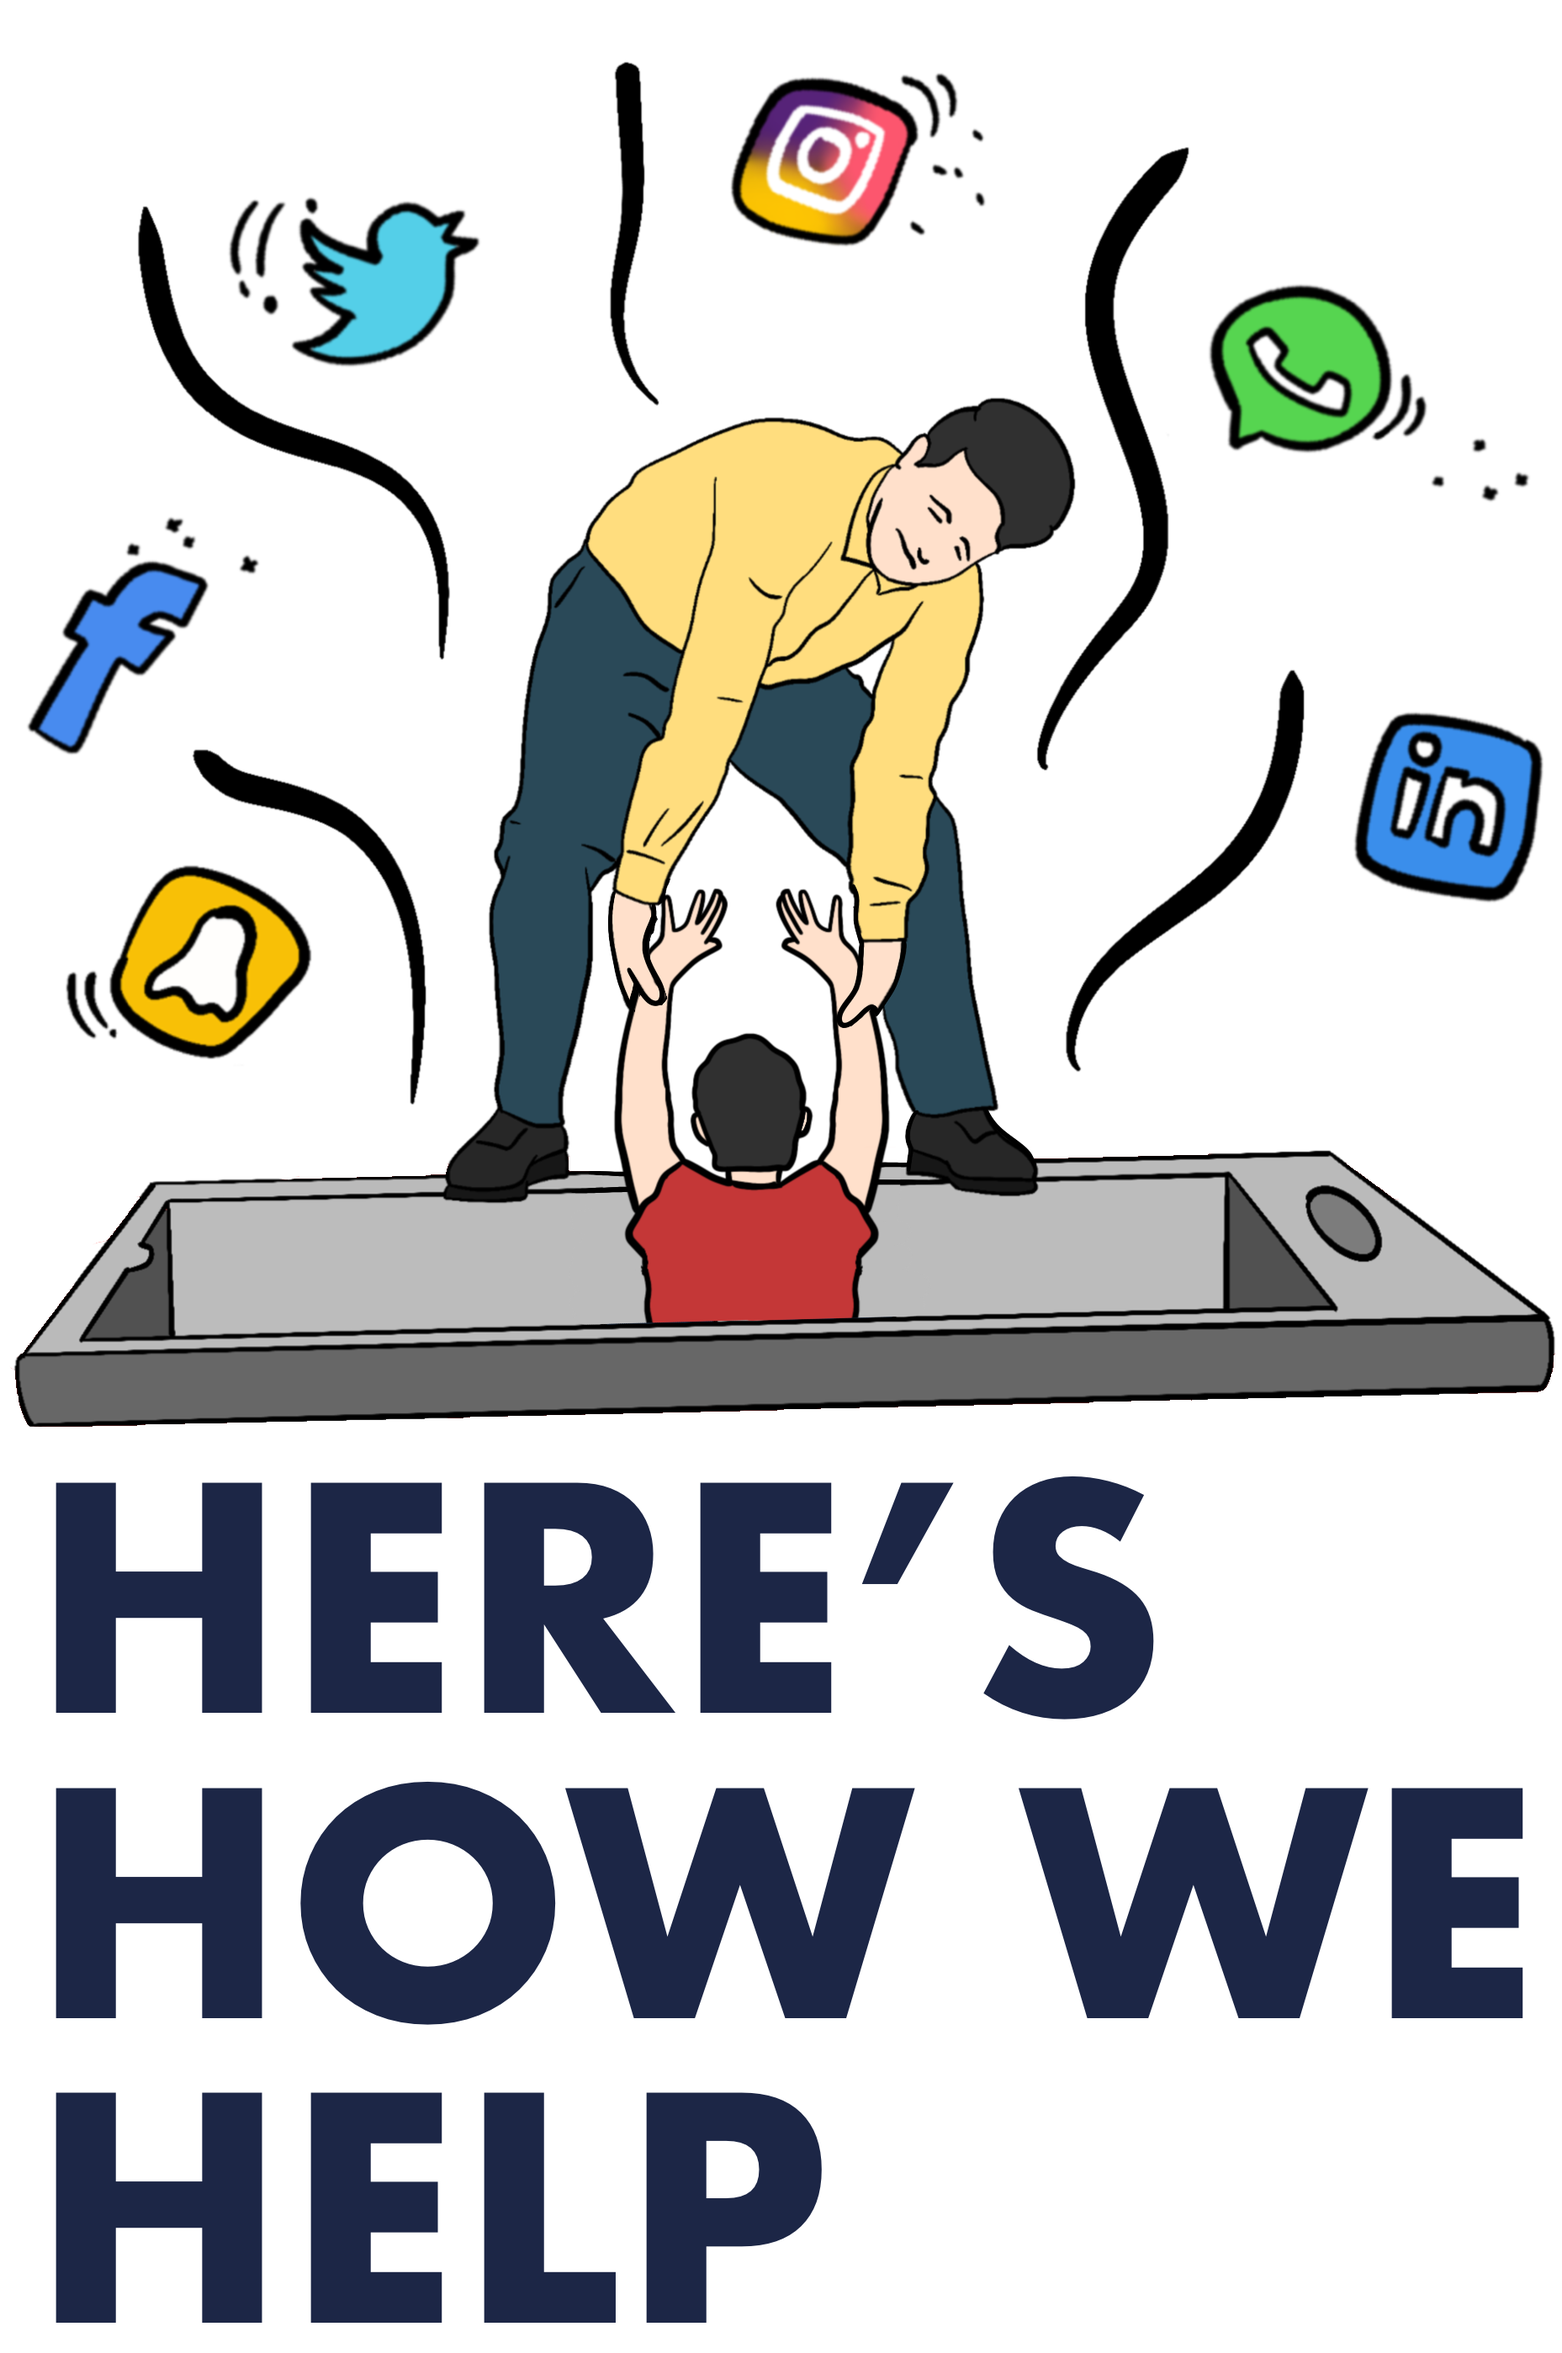
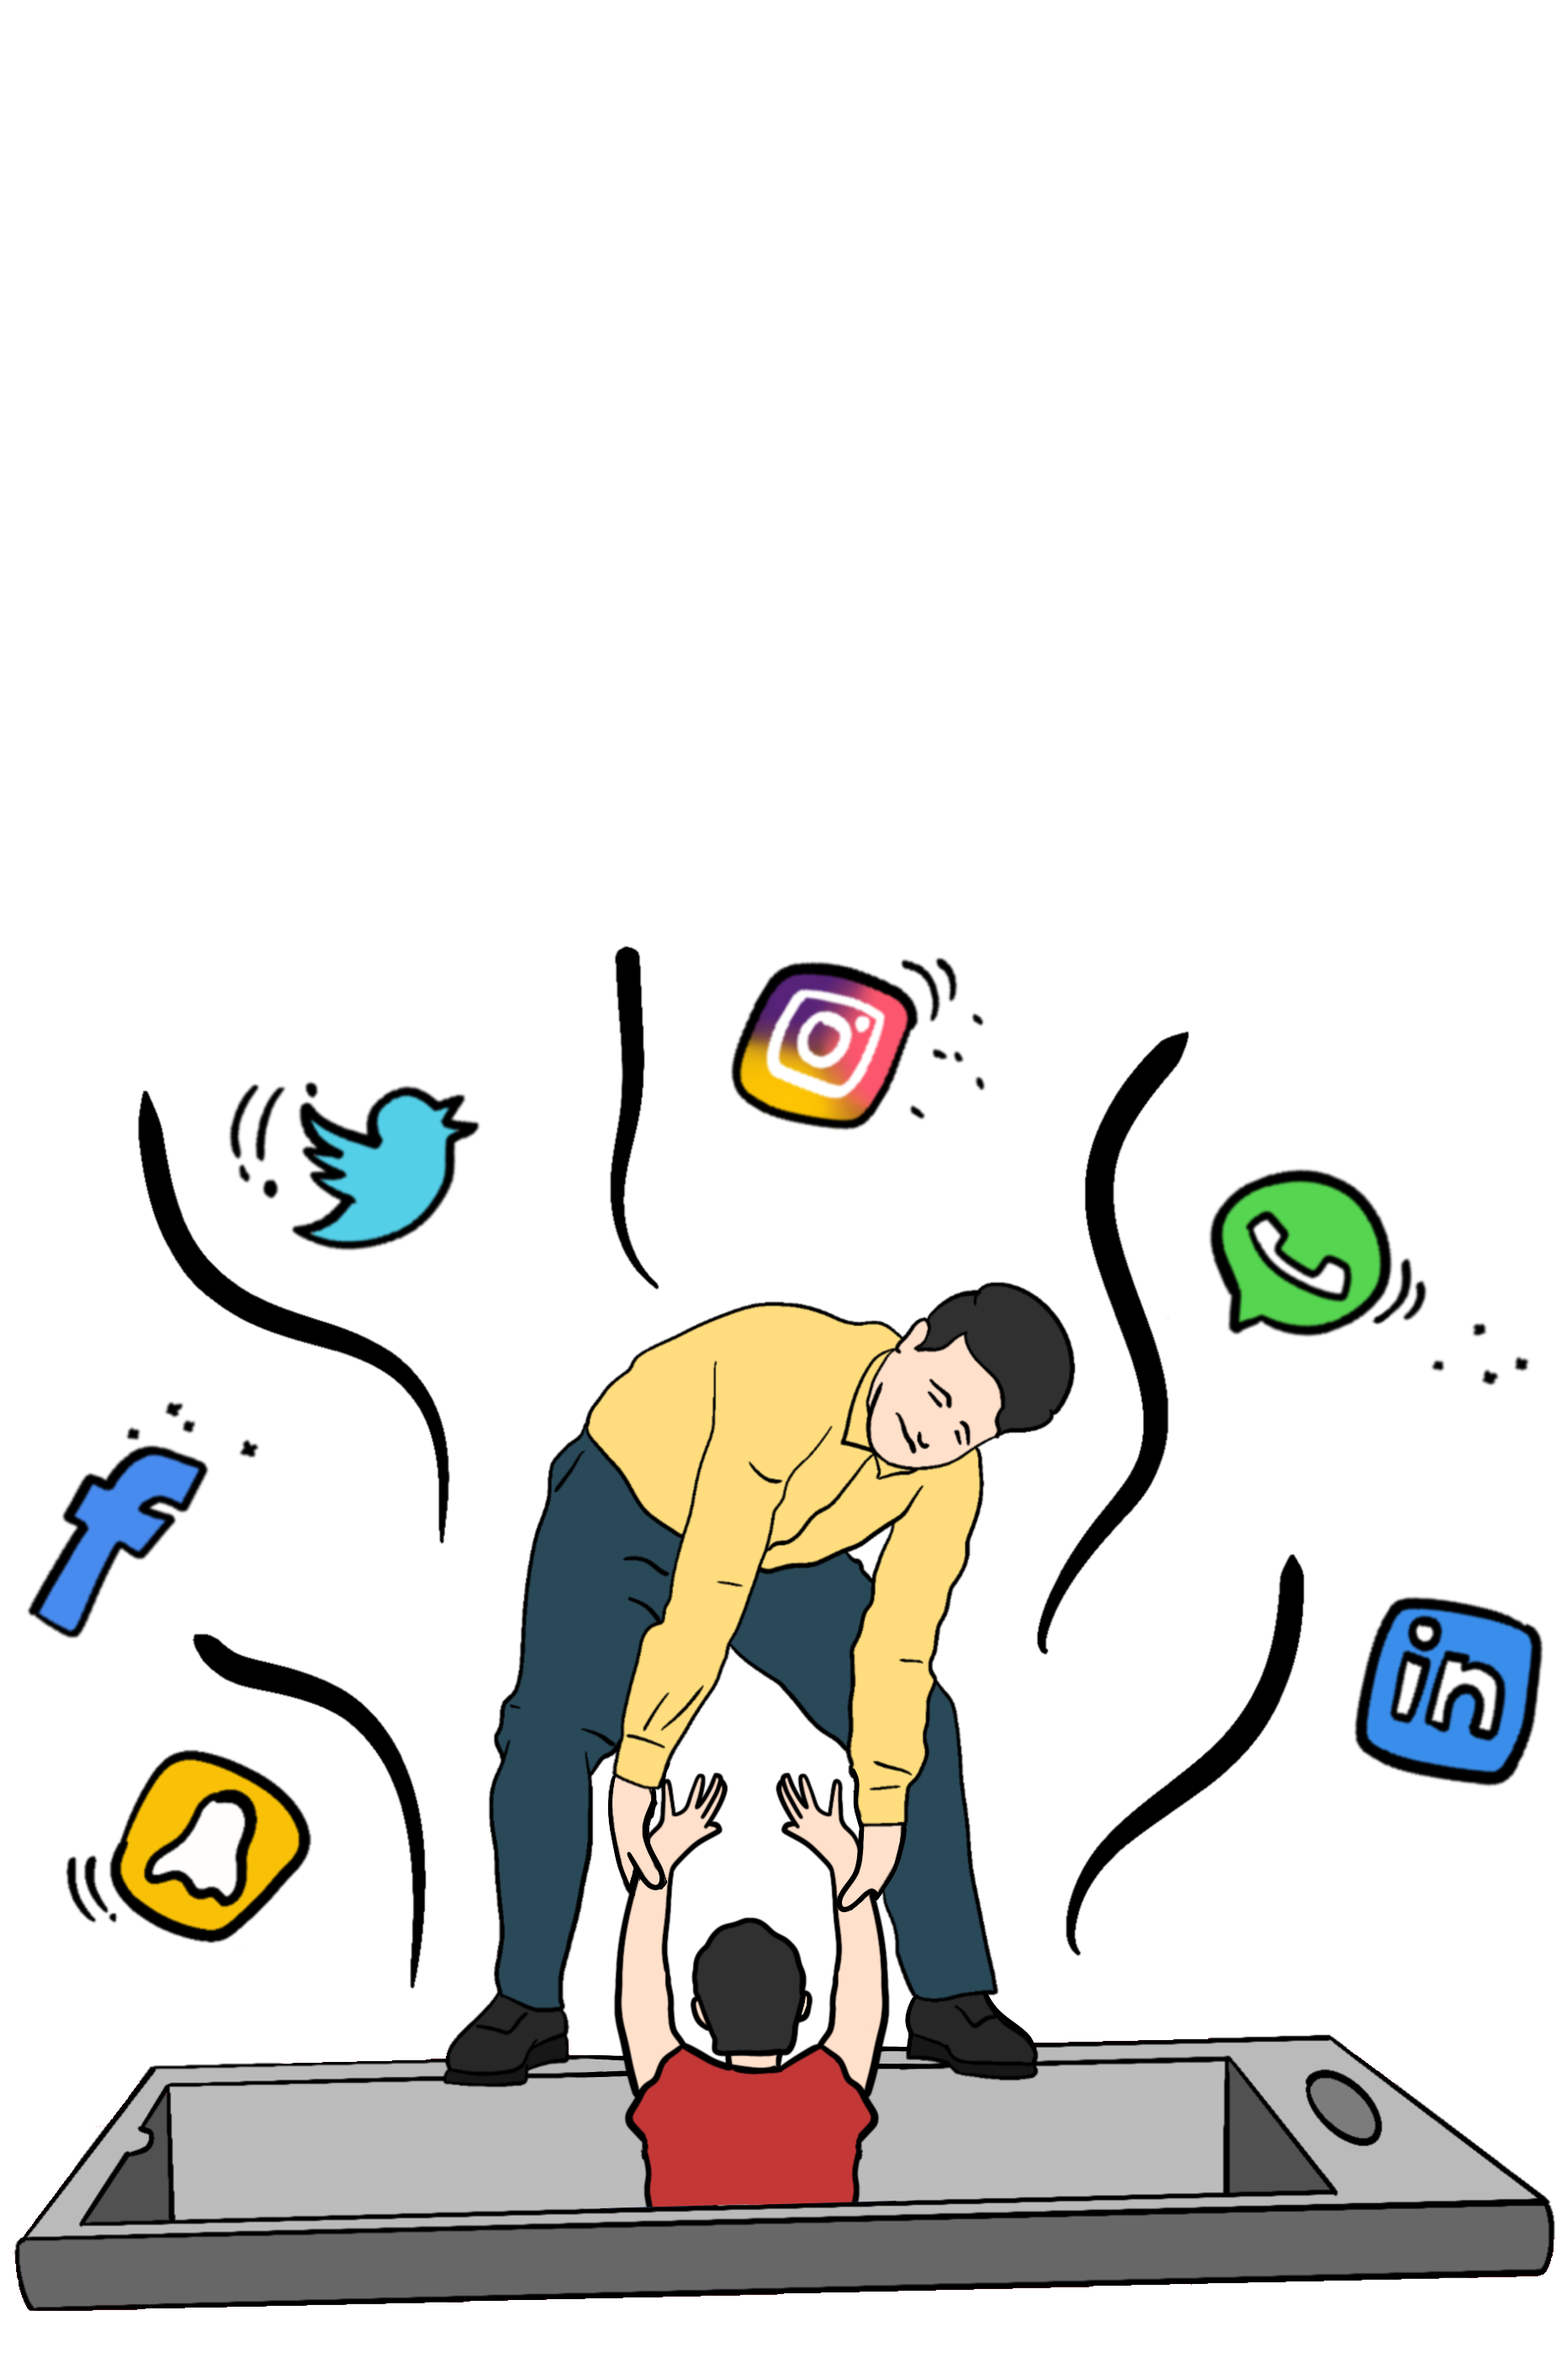
update : update how we help

diff --git a/src/components/Home/Struggles.tsx b/src/components/Home/Struggles.tsx
@@ -1,45 +1,45 @@
 const Struggles = () => {
   return (
     <>
-      <div className='w-full h-full bg-red'>
+      <div className="w-full h-full bg-red">
         <div className="bg-[url('/assets/home/Group 2.png')] lg:bg-cover bg-bottom bg-no-repeat px-10 h-full ">
-          <div className='relative'>
-            <h1 className='text-3xl lg:text-7xl lg:text-center '>
+          <div className="relative">
+            <h1 className="text-3xl lg:text-7xl lg:text-center ">
               We know
               <br />
-              <span className='font-extrabold'>THE STRUGGLES</span>
+              <span className="font-extrabold">THE STRUGGLES</span>
               <br />
               our youth is facing
             </h1>
-            <figure className='absolute top-0 right-2 w-[8rem] lg:w-[20rem]'>
-              <img src='/assets/home/Paper rocket .png' alt='pr-asset' />
+            <figure className="absolute top-0 right-2 w-[8rem] lg:w-[20rem]">
+              <img src="/assets/home/Paper rocket .png" alt="pr-asset" />
             </figure>
           </div>
-          <div className='py-10 px-3'>
+          <div className="py-10 px-3">
             <figure>
               <img
-                src='/assets/home/Assets .png'
-                alt=''
-                className='h-full w-full object-contain'
+                src="/assets/home/Assets .png"
+                alt=""
+                className="h-full w-full object-contain"
               />
             </figure>
           </div>
         </div>
         <div className="w-full h-full flex gap-12 px-4  lg:px-32 bg-[url('/assets/images/blue-wave.png')] bg-top bg-no-repeat bg-cover pt-[5rem] lg:pt-36">
-          <div className='w-1/2 h-ful l'>
-            <figure className='w-full  h-full  '>
+          <div className="w-1/2 h-ful l">
+            <figure className="w-full  h-full relative top-16">
               <img
-                src='/assets/images/here-how-we-help.png'
-                alt='negative effects of mobile'
-                className='h-full w-full object-cover'
+                src="/assets/images/here-how-we-help.png"
+                alt="negative effects of mobile"
+                className="h-full w-full object-cover"
               />
             </figure>
           </div>
-          <figure className='w-1/2 h-auto  '>
+          <figure className="w-1/2 h-auto  ">
             <img
-              src='/assets/home/Assets-2.png'
-              alt='negative effects of mobile'
-              className='h-full w-full object-contain'
+              src="/assets/home/Assets-2.png"
+              alt="negative effects of mobile"
+              className="h-full w-full object-contain"
             />
           </figure>
         </div>

diff --git a/src/components/Home/ComicsSection.tsx b/src/components/Home/ComicsSection.tsx
@@ -6,6 +6,11 @@ import PortalImgHome from "@/assets/imgs/portalBgHome.svg";
 import WorkshopBgHome from "@/assets/imgs/workshopBgHome.svg";
 import ComicsBgHome from "@/assets/imgs/comicsBgHome.svg";
 import Klement_Toonla_Home from "@/assets/imgs/klement_toonlaBgHome.svg";
+import KidsWorkshopHome from "@/assets/imgs/kidsWorkshopHome.svg";
+import TeenWorkshopHome from "@/assets/imgs/TeenWorkshopHome.svg";
+import ElderWorkshopHome from "@/assets/imgs/ElderWorkshopHome.svg";
+import ComicWorkshopHome from "@/assets/imgs/comicWorkshopHome.svg";
+import CharacterWorkshopHome from "@/assets/imgs/characterWorkshopHome.svg";
 import { easeInOut, motion } from "framer-motion";
 
 const ComicsSection: React.FC = () => {
@@ -80,6 +85,7 @@ const ComicsSection: React.FC = () => {
         <img src={WorkshopBgHome} alt="workshop" />
         <div className="w-full absolute rotate-180 flex items-center justify-center right-4 top-[14rem] ">
           <img className="w-1/3" src={PortalImgHome} alt="portal" />
+          <div></div>
         </div>
       </div>
     </div>
